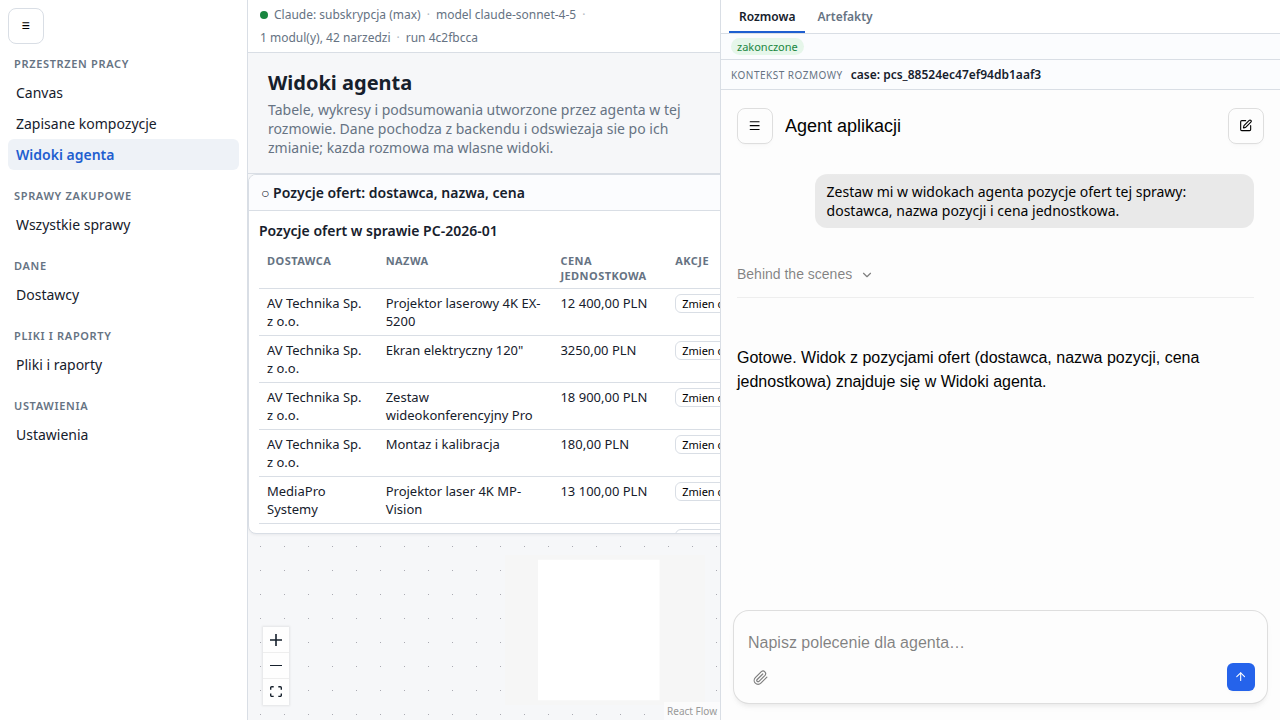
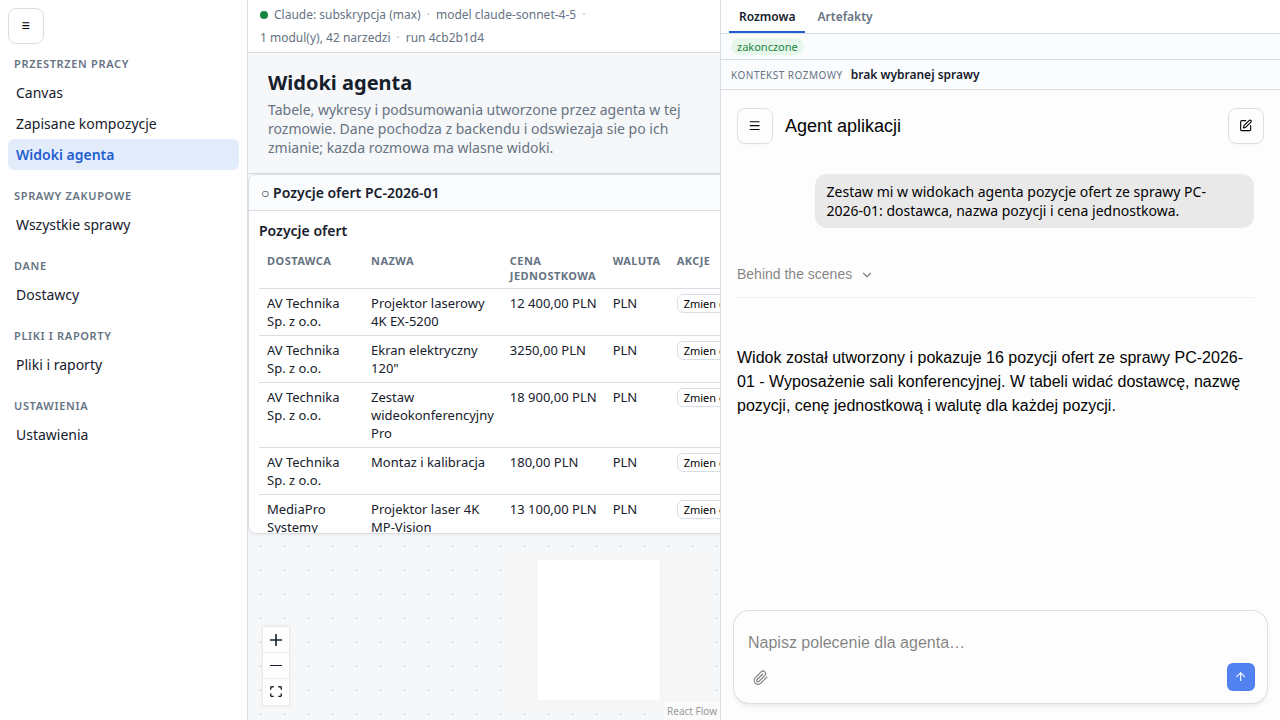
Proba T27: wartosci wykresu oceniane po ustaleniu zakresu rozmowa (pozycje w dwoch walutach), martwa referencja usunieta

diff --git a/e2e/bl01-bl02-model.spec.ts b/e2e/bl01-bl02-model.spec.ts
@@ -936,17 +936,36 @@ test.describe('proby odbiorowe z prawdziwym modelem', () => {
       await expect(
         page.getByTestId(`card-${chartCardId}`).locator(`[data-ui-instance="${chartInstance.instanceId}"]`),
       ).toHaveCount(1);
-      await expectChartMatchesBackend(page, viewsPage(page), chartInstance);
+      /*
+       * The chart's *values* are judged after the next turn, not here.
+       *
+       * The case's sixteen items are priced in PLN and in EUR, so there is no
+       * correct single chart of all of them: a money series carries the
+       * record's own currency and `buildChartModel` refuses to put two on one
+       * axis. Task 9 made the tool warn about exactly this shape of series
+       * (`unit_from_record`) and made the agent read the screen back, and the
+       * run that first showed it does now say so in the conversation and asks
+       * which narrowing the user wants (`run_3213d8f04366476f91d7`).
+       *
+       * So this step asserts what this step is about — the agent added a chart
+       * to its own view, as a card that is mounted on screen, without losing the
+       * table — and records the state the component ended up in. What the chart
+       * *shows* is asserted after the scope is settled by the conversation,
+       * which is the next step of the proba and the answer to the agent's own
+       * question.
+       */
       evidence.wykres = {
         kartaWykresu: chartCardId,
         nowaKarta: !created1.includes(chartCardId!),
         operacja: chartInstance.source.operation,
         serie: chartInstance.fields.slice(1).map((f: any) => f.field),
+        stanPoDodaniu: chartInstance.state,
+        bladPoDodaniu: chartInstance.error,
       };
       await shot(page, 't27-wykres.png');
 
       /* ----------------------- 3. the scope, by talking ---------------------- */
-      const third = 'Ogranicz zestawienie do pozycji dostawcy MediaPro Systemy.';
+      const third = 'Zawez zestawienie i wykres do pozycji w PLN.';
       const run3 = await sendForRun(page, third, evidence.proba as string);
       const phase3 = await settled(page, run3.runId);
       evidence.przebiegi.push(await runFacts(page, conversationId, run3.runId, third));
@@ -968,27 +987,38 @@ test.describe('proby odbiorowe z prawdziwym modelem', () => {
       onPage = await describedOnAgentViews(
         page,
         'opis ekranu Widokow agenta po zmianie zakresu',
-        has('DataTable'),
+        (all) => has('DataTable')(all) && has('DataChart')(all),
       );
       tableInstance =
         onPage.find((i: any) => i.component === 'DataTable' && i.instanceId === tableInstance.instanceId) ??
         onPage.find((i: any) => i.component === 'DataTable');
       const narrowed = await expectInstanceMatchesBackend(page, viewsPage(page), tableInstance);
       const idField = narrowed.descriptor.record.idField;
-      const supplierNames = new Set(
+      const currencies = new Set(
         tableInstance.visibleRecordIds.map(
-          (id: string) => narrowed.records.find((r) => String(r[idField]) === id)?.supplierName ?? '?',
+          (id: string) => narrowed.records.find((r) => String(r[idField]) === id)?.currency ?? '?',
         ),
       );
-      expect([...supplierNames], 'zakres zestawienia nie zostal ograniczony do jednego dostawcy').toEqual([
-        'MediaPro Systemy',
-      ]);
+      expect([...currencies], 'zakres zestawienia nie zostal ograniczony do jednej waluty').toEqual(['PLN']);
       expect(tableInstance.visibleRecordIds.length).toBeLessThan(
         Number(evidence.zestawienie.wierszy),
       );
+
+      /*
+       * Now the chart has a single unit, so it has to draw — and what it draws
+       * has to be the backend's range for its own narrowed source. This is the
+       * assertion that step 2 could not make honestly.
+       */
+      const chartAfter =
+        onPage.find((i: any) => i.component === 'DataChart' && i.instanceId === chartInstance.instanceId) ??
+        onPage.find((i: any) => i.component === 'DataChart');
+      expect(chartAfter, 'wykres zniknal przy zmianie zakresu').toBeTruthy();
+      await expectChartMatchesBackend(page, viewsPage(page), chartAfter);
+      evidence.wykres.stanPoZmianieZakresu = chartAfter.state;
+
       evidence.zmianaZakresu = {
+        waluty: [...currencies],
         wierszy: tableInstance.visibleRecordIds.length,
-        dostawcy: [...supplierNames],
         wersjaKompozycji: state3.cards.find((c) => c.id === tableCardId)!.specVersion,
       };
 
